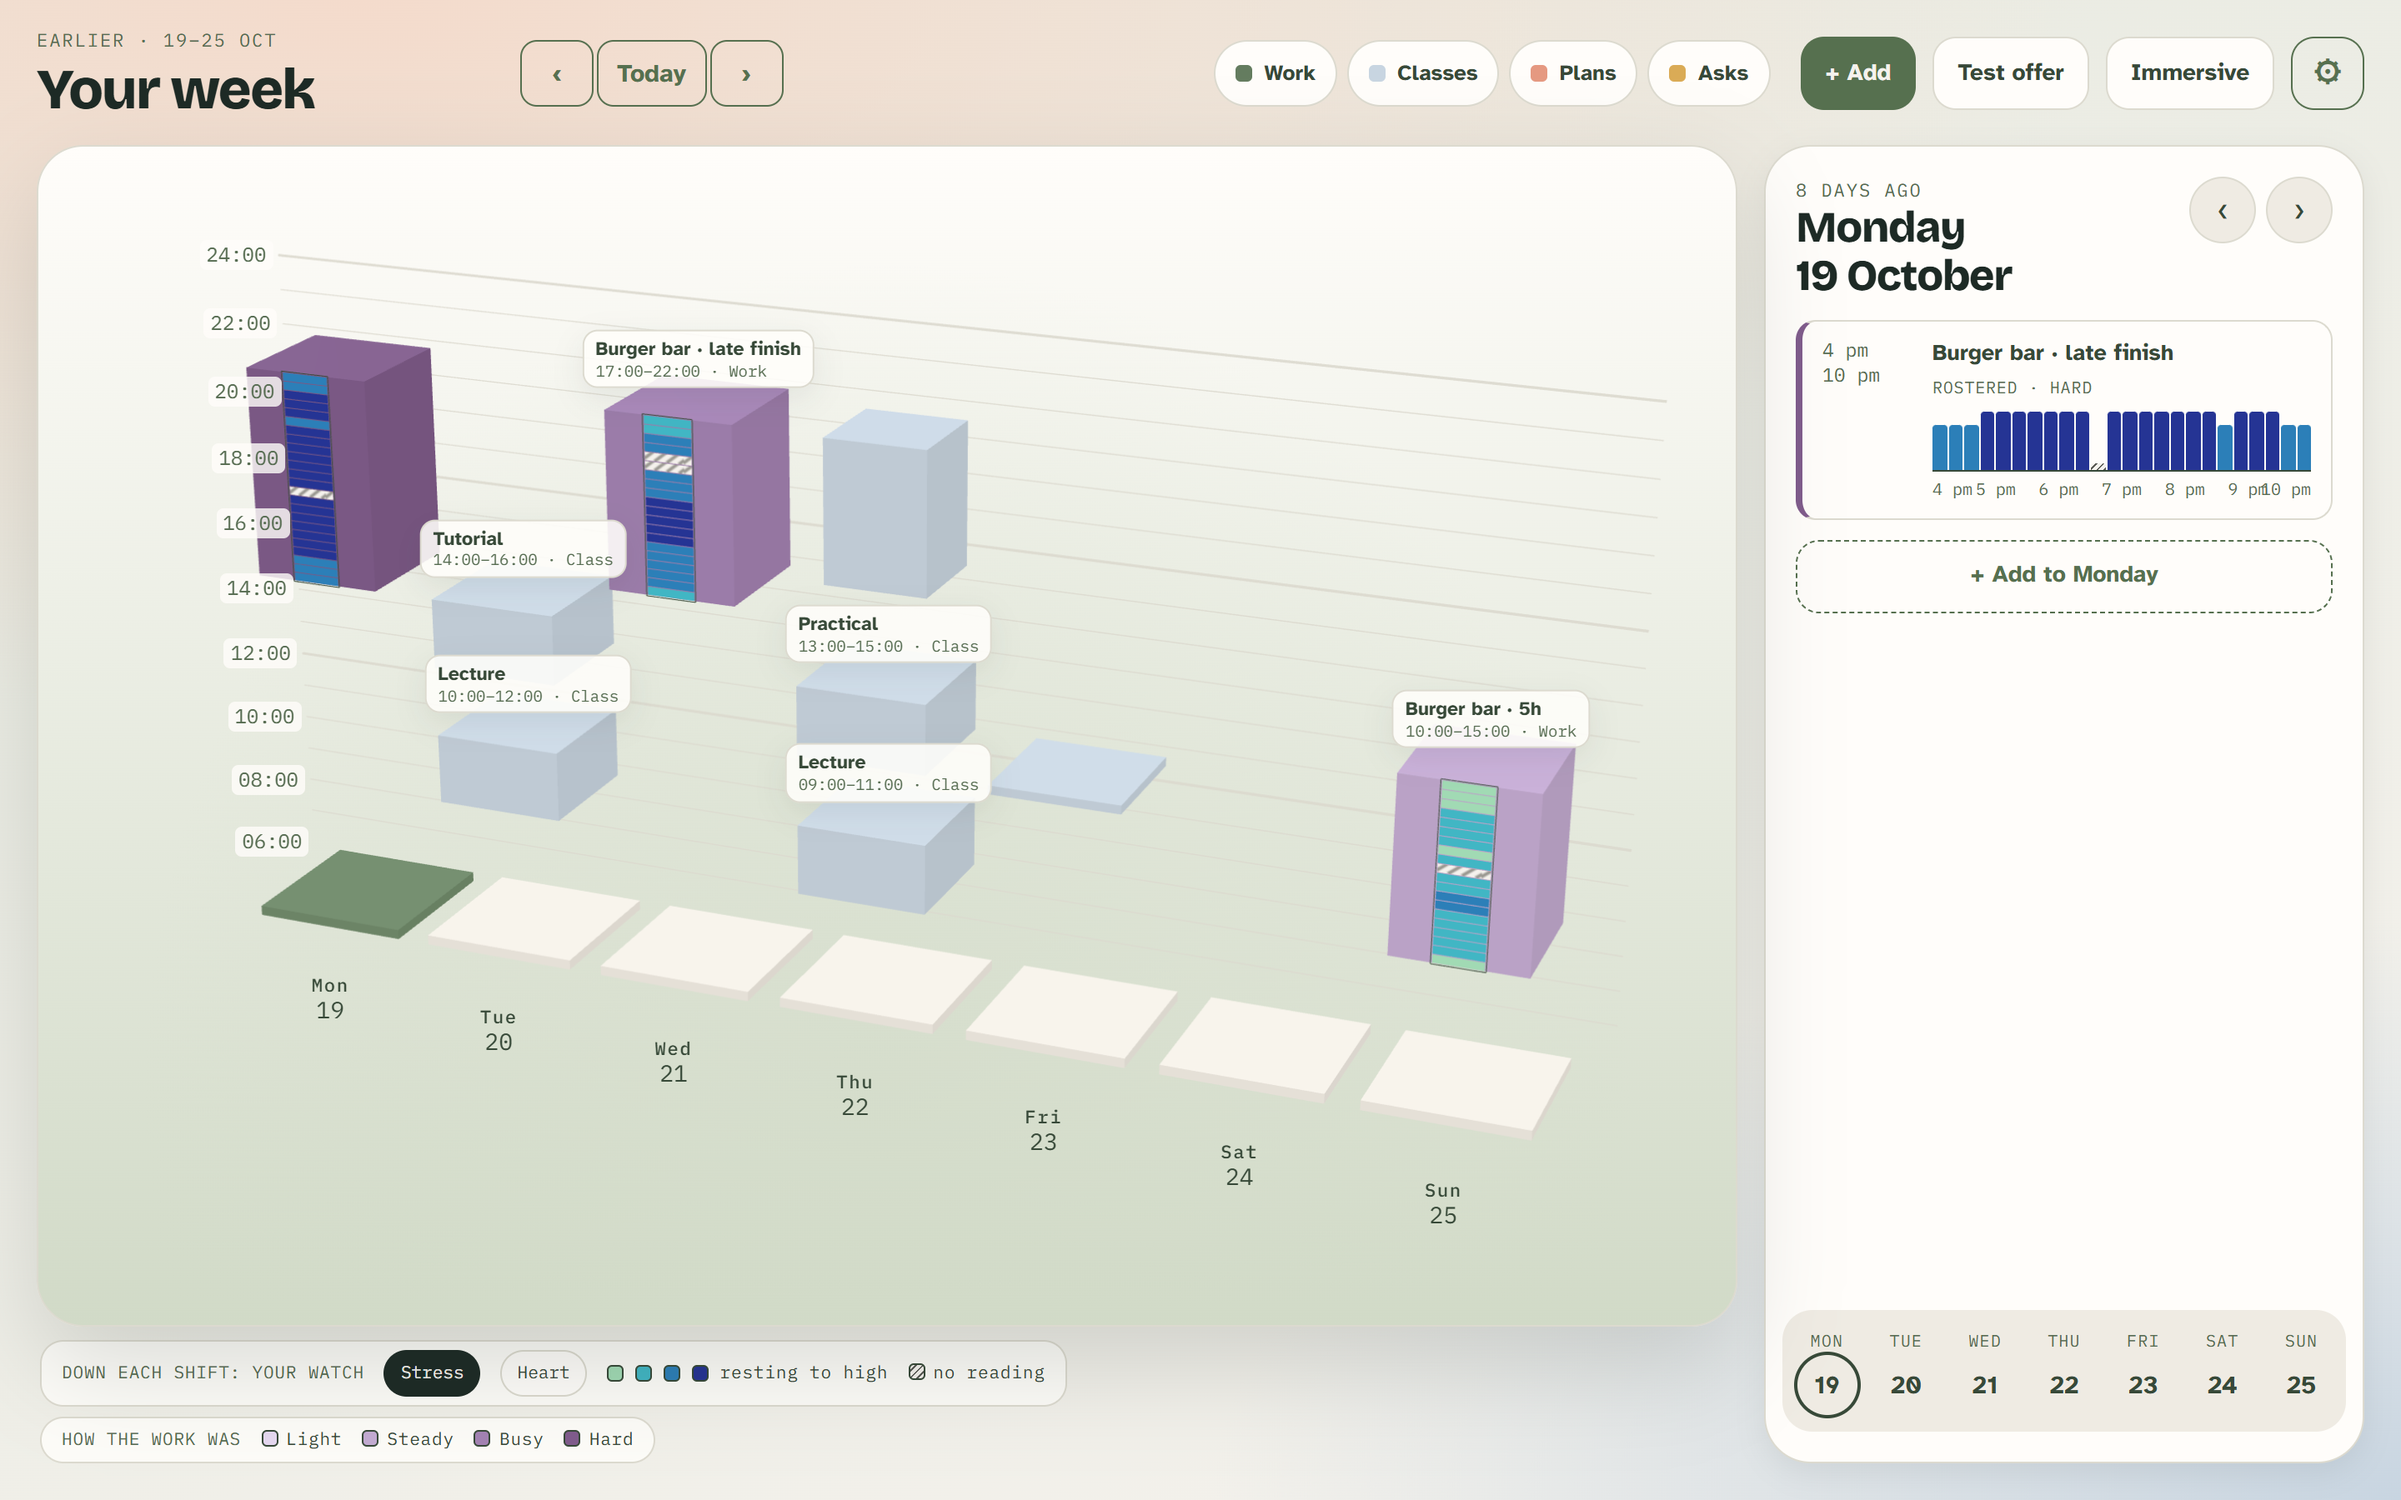
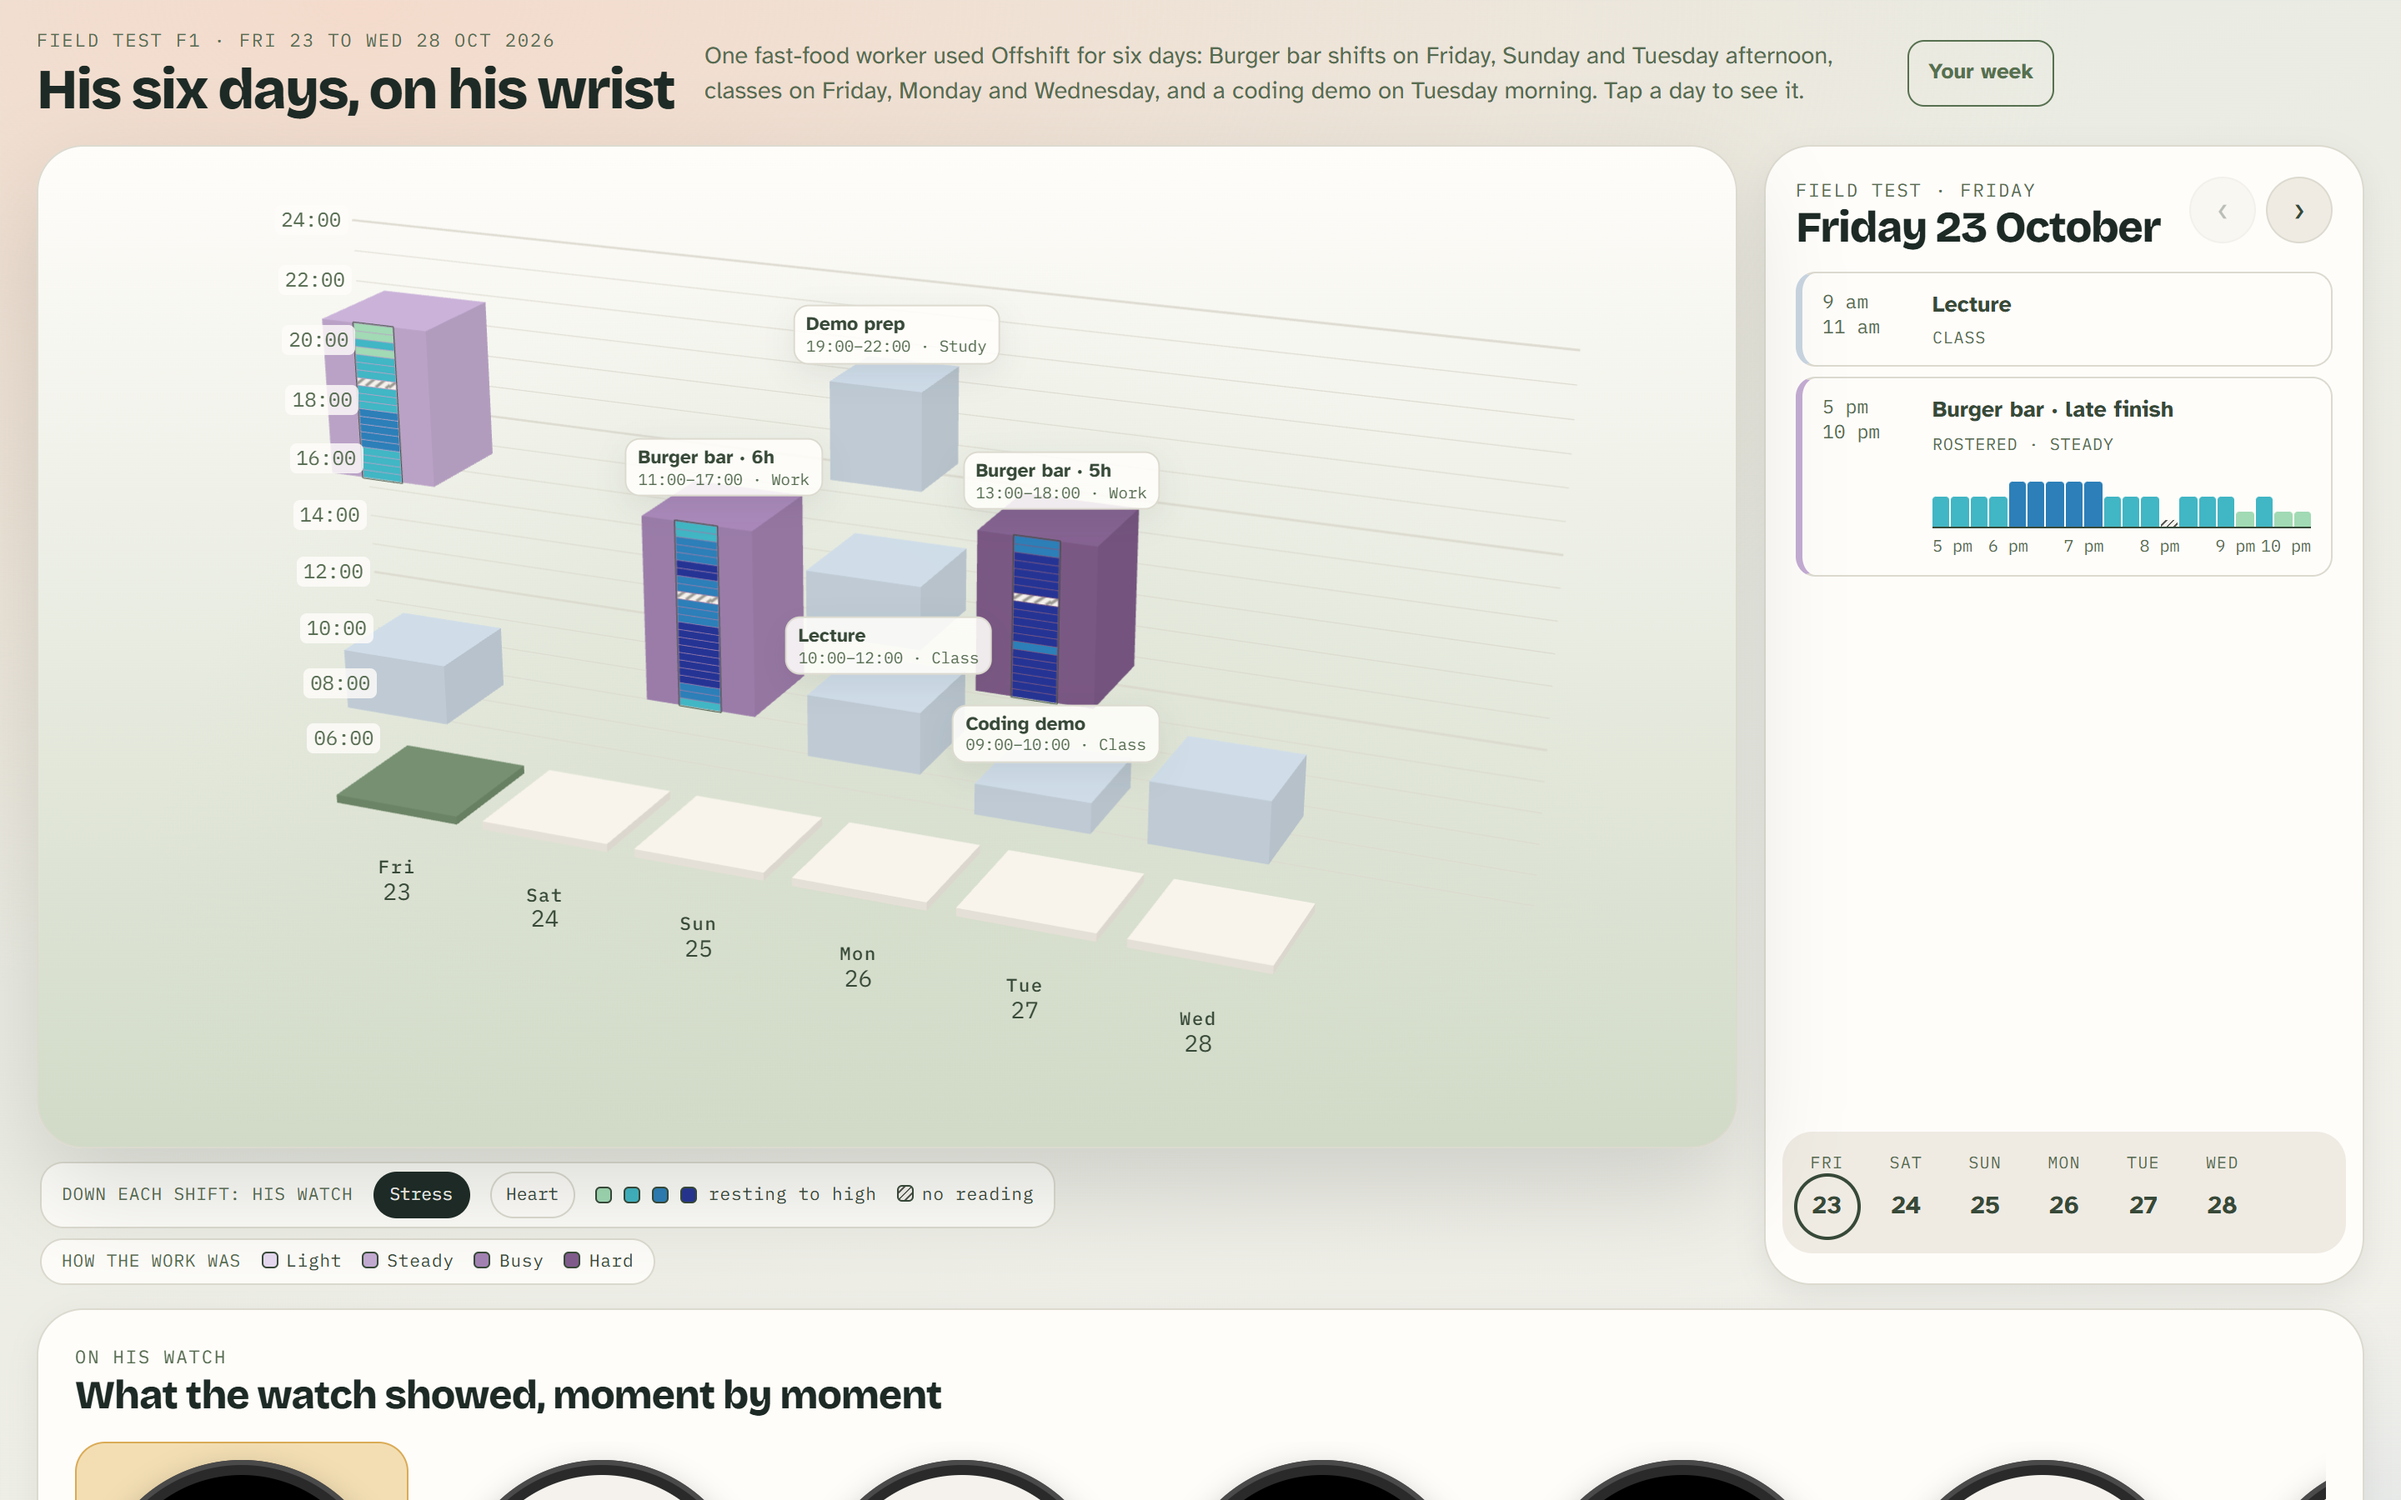
docs(field-test): new F1 figures and walkthrough text for the six days

diff --git a/docs/PROTOTYPE-FLOW.md b/docs/PROTOTYPE-FLOW.md
@@ -122,7 +122,7 @@ sequenceDiagram
 |---|---|---|
 | `/calendar` | The real prototype for a participant | The participant's week |
 | `/demo` | The exhibition demo. Opening it starts a fresh scenario | Its own demo week |
-| `/field-testing` | Field test F1's week, read only, with what his watch showed | A fixed copy, never saved |
+| `/field-testing` | Field test F1's six days, read only, with what his watch showed | A fixed copy, never saved |
 
 ### `/demo`, the exhibition demo
 
@@ -145,9 +145,9 @@ The **demo watch build** reads this demo week (its address is `https://offshift-
 4. Open Offshift on the watch: rate the shift, then answer Sam's ask. Watch the page update.
 5. Press **Restart** before the next visitor.
 
-### `/field-testing`, the field test week
+### `/field-testing`, the field test days
 
-One fast-food worker used Offshift for a week (19-25 October 2026): three Burger bar shifts, classes on Tuesday and Thursday, and a coding demo on Friday. The page shows his week in 3D with his ratings and readings, and below it every watch screen in time order (check-ins, two asks, his two declines, Sunday's shift read back in words). The 15-minute readings are a reconstruction from what he described, not the raw watch data, and names are changed.
+One fast-food worker used Offshift for six days, Friday 23 to Wednesday 28 October 2026: Burger bar shifts on Friday, Sunday and Tuesday afternoon, classes on Friday, Monday and Wednesday, and a coding demo on Tuesday morning. Tuesday was his most stressful day (the demo, then the shift), and Sunday's lunch rush came next. The page shows those six days in 3D with his ratings and readings, and below it every watch screen in time order (check-ins, two asks, his two declines, Tuesday's shift read back in words). The exact times, his ratings and the asks were filled in by the team to match his account; the 15-minute readings are a reconstruction from what he described, not the raw watch data; and names are changed.
 
 ![The field test page](https://raw.githubusercontent.com/AndhikaNayakaAW/DECO2850-team-project/main/docs/design/assets/flow-field-testing.png)
 
